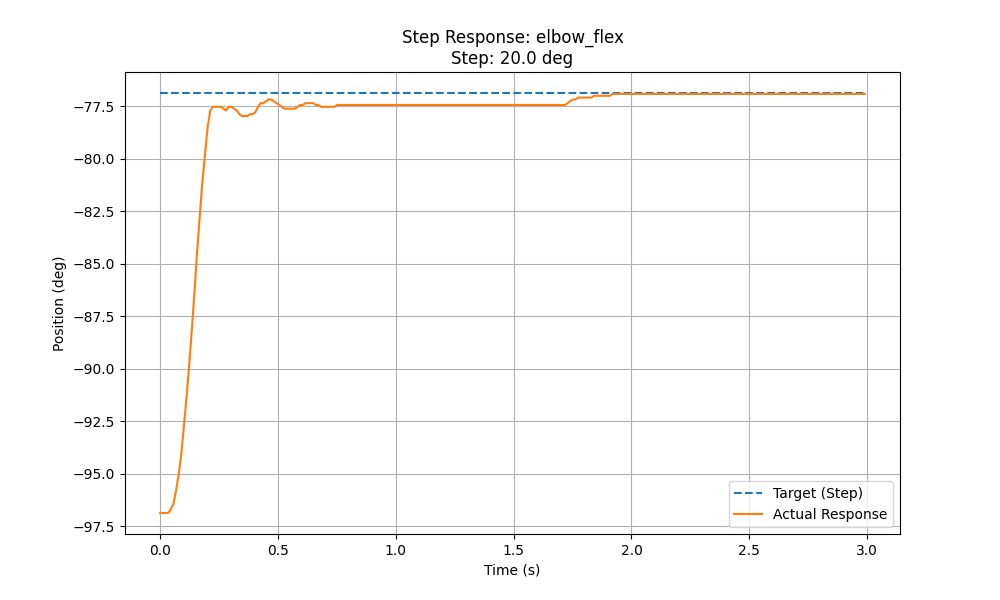
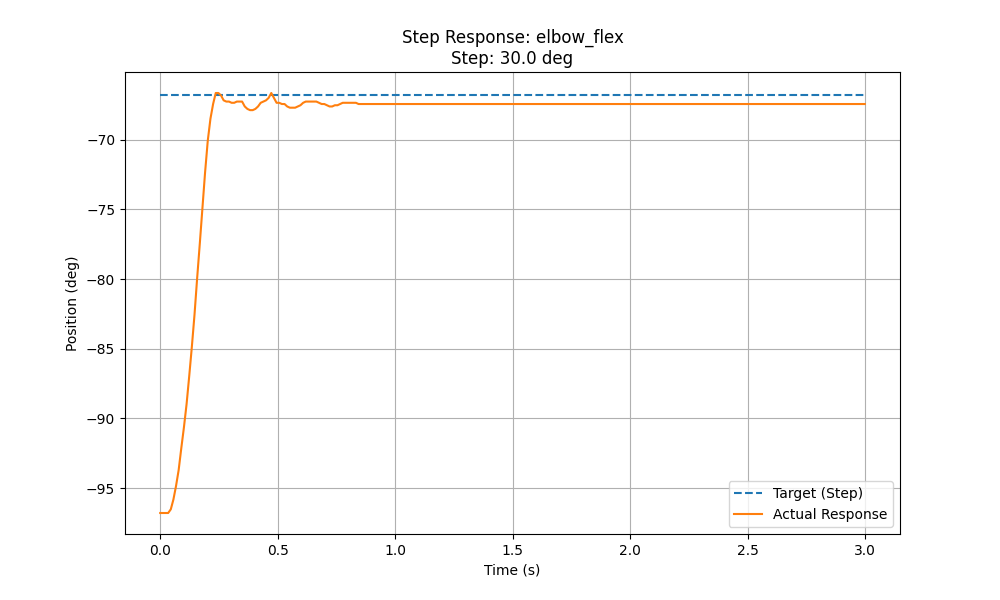
perf: Tune SO101 motor PID coefficients, increase control frequency, update camera index, and refresh associated logs and plots.

diff --git a/scripts/debug_ee_so101.py b/scripts/debug_ee_so101.py
@@ -35,7 +35,7 @@ from lerobot.cameras.opencv.configuration_opencv import OpenCVCameraConfig
 
 # --- Configuration ---
 URDF_PATH = "./SO-ARM100/Simulation/SO101/so101_new_calib.urdf" # Relative to workspace root
-CONTROL_FREQ = 5  # Hz
+CONTROL_FREQ = 10  # Hz
 FPS = 30
 
 MOTOR_NAMES = [
@@ -116,7 +116,7 @@ def main():
     # 1. Connect to Robot
     print(f"Connecting to robot on {args.port}...")
     # Mock camera config since we aren't using policy
-    camera_config = {"camera": OpenCVCameraConfig(index_or_path=0, width=320, height=240, fps=FPS)}
+    camera_config = {"camera": OpenCVCameraConfig(index_or_path=2, width=320, height=240, fps=FPS)}
     
     robot_config = SO101FollowerConfig(port=args.port, id="so101_vio_replay", use_degrees=True, cameras=camera_config)
     robot = SO101Follower(robot_config)

diff --git a/src/lerobot/robots/so101_follower/so101_follower.py b/src/lerobot/robots/so101_follower/so101_follower.py
@@ -152,9 +152,9 @@ class SO101Follower(Robot):
             for motor in self.bus.motors:
                 self.bus.write("Operating_Mode", motor, OperatingMode.POSITION.value)
                 # Set P_Coefficient to lower value to avoid shakiness (Default is 32)
-                self.bus.write("P_Coefficient", motor, 32)
+                self.bus.write("P_Coefficient", motor, 64)
                 # Set I_Coefficient and D_Coefficient to default value 0 and 32
-                self.bus.write("I_Coefficient", motor, 10)
+                self.bus.write("I_Coefficient", motor, 0)
                 self.bus.write("D_Coefficient", motor, 64)
 
                 if motor == "gripper":
